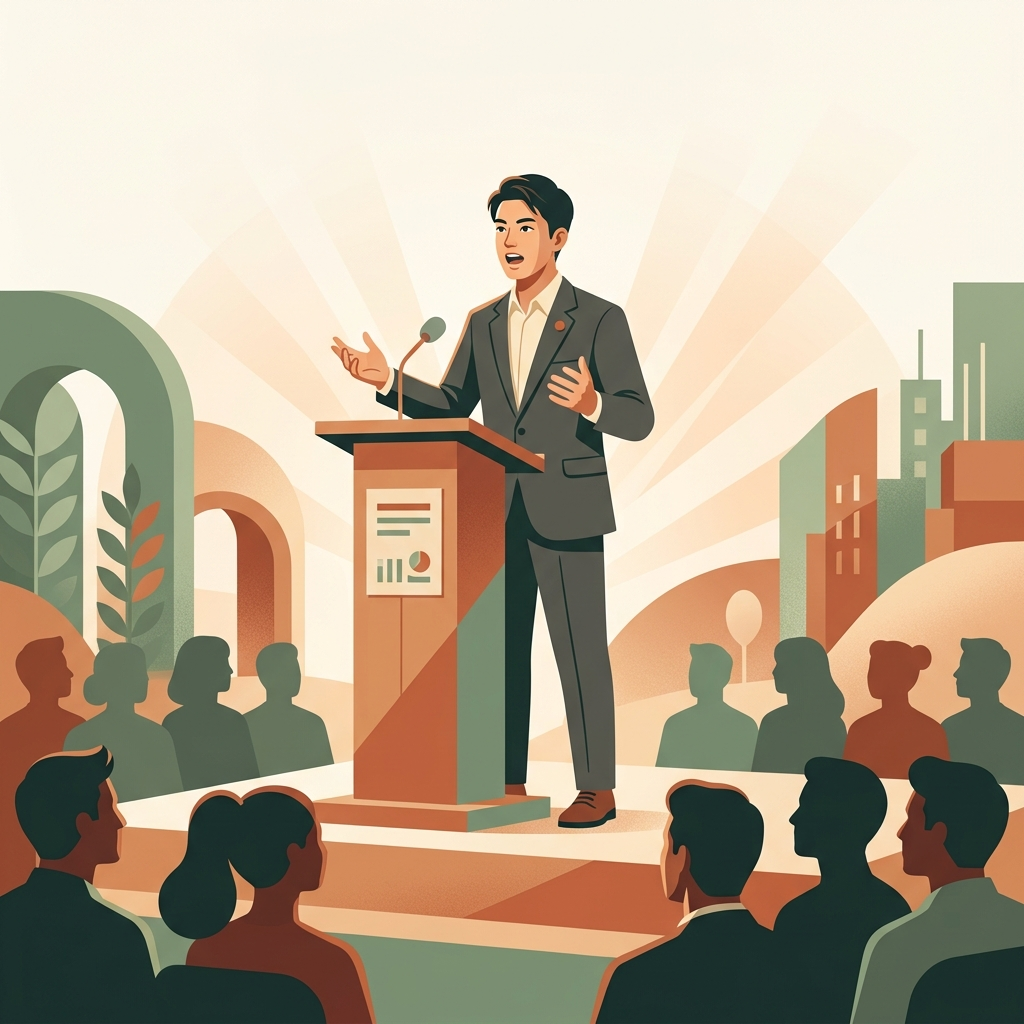
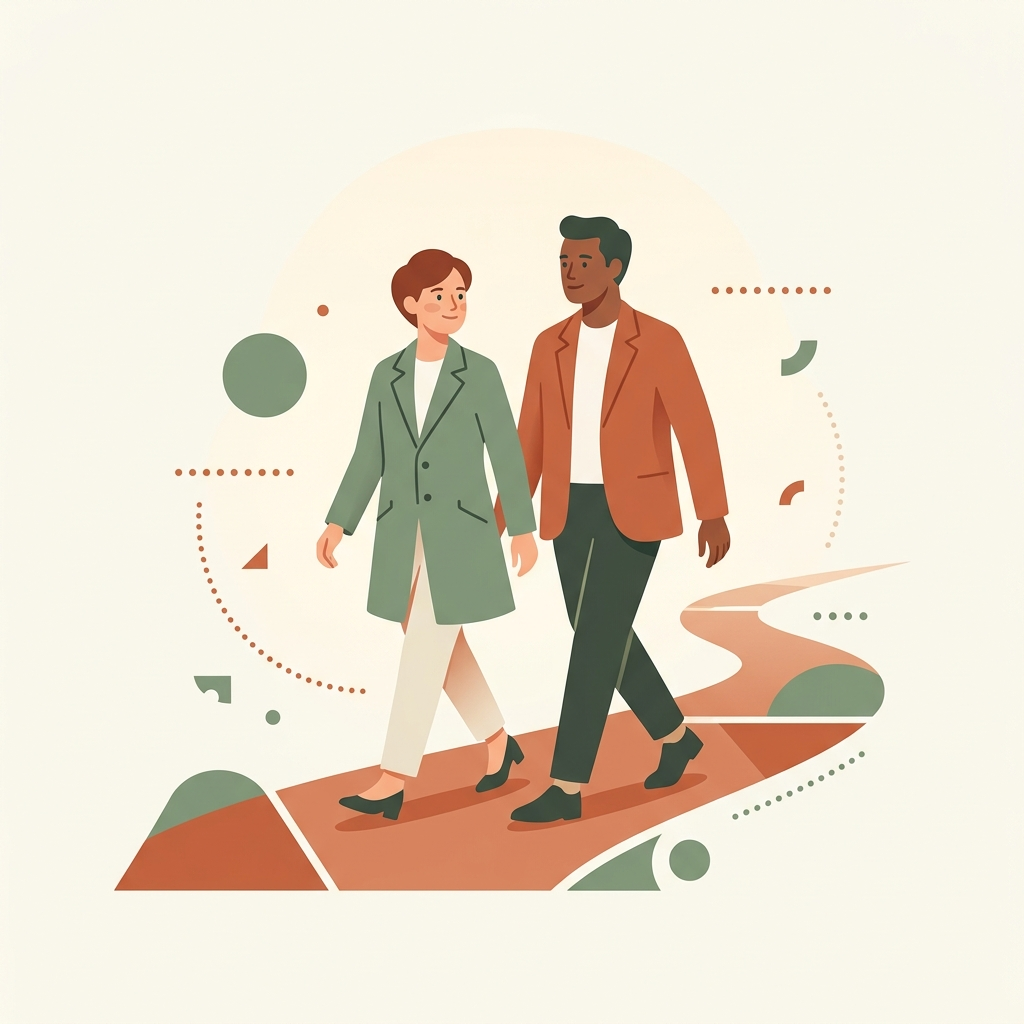
fix: hero back to center-aligned layout with accompaniment illustration + gimmick rings

diff --git a/css/style.css b/css/style.css
@@ -118,11 +118,11 @@ p{margin-bottom:1rem;line-height:1.85;font-size:1.05rem}
 .nav__overlay.open{display:block}
 
 /* ==========================================
-   HERO — Two-column visual impact
+   HERO — Center-aligned with visual gimmick
    ========================================== */
 .hero-wrapper{position:relative}
 
-.hero{position:relative;min-height:100vh;overflow:hidden;display:flex;flex-direction:column;justify-content:center;align-items:center;padding-top:64px;
+.hero{position:relative;min-height:100vh;overflow:hidden;display:flex;flex-direction:column;justify-content:center;align-items:center;padding:100px 0 120px;
   background:
     linear-gradient(135deg, #FAF8F2 0%, #F5F0E8 25%, #EDE8DF 50%, #F3EFE6 75%, #FAFAF6 100%);
 }
@@ -153,26 +153,28 @@ p{margin-bottom:1rem;line-height:1.85;font-size:1.05rem}
 .hero__blob--sage{width:550px;height:550px;background:radial-gradient(circle,rgba(107,143,113,.08),transparent 65%);bottom:-8%;left:-8%}
 .hero__blob--cream{width:500px;height:500px;background:radial-gradient(circle,rgba(243,241,235,.55),transparent 60%);top:20%;left:30%}
 
-/* Split layout — text left, visual right */
-.hero__split{position:relative;z-index:10;display:flex;align-items:center;justify-content:center;gap:48px;max-width:1100px;width:100%;padding:0 32px;margin:0 auto}
-.hero__text-side{flex:1;max-width:540px;text-align:left}
-.hero__visual-side{flex:1;display:flex;align-items:center;justify-content:center;max-width:480px}
-
+/* Centered text block */
+.hero__center{position:relative;z-index:10;text-align:center;padding:0 32px;max-width:800px;width:100%}
 .hero__label{font-family:var(--font-accent);font-size:.75rem;font-weight:600;color:var(--color-accent);letter-spacing:.28em;text-transform:uppercase;margin-bottom:22px;display:block;opacity:0;transform:translateY(10px);animation:heroFadeUp .7s var(--ease-out) .2s forwards}
-.hero__main-copy{font-family:var(--font-heading);font-size:clamp(2.4rem,5vw,3.8rem);font-weight:800;color:var(--color-primary);line-height:1.2;margin-bottom:24px;opacity:0;transform:translateY(16px);animation:heroFadeUp .7s var(--ease-out) .4s forwards;letter-spacing:.02em}
+.hero__main-copy{font-family:var(--font-heading);font-size:clamp(2.6rem,6vw,4.2rem);font-weight:800;color:var(--color-primary);line-height:1.2;margin-bottom:28px;opacity:0;transform:translateY(16px);animation:heroFadeUp .7s var(--ease-out) .4s forwards;letter-spacing:.02em}
 .hero__main-copy .accent{color:var(--color-accent);position:relative}
-.hero__sub-copy{font-size:clamp(.95rem,1.4vw,1.1rem);color:var(--color-text-light);line-height:2;margin-bottom:32px;opacity:0;transform:translateY(10px);animation:heroFadeUp .7s var(--ease-out) .55s forwards}
+.hero__sub-copy{font-size:clamp(1rem,1.5vw,1.15rem);color:var(--color-text-light);line-height:2;margin-bottom:36px;opacity:0;transform:translateY(10px);animation:heroFadeUp .7s var(--ease-out) .55s forwards}
 .hero__cta-group{opacity:0;transform:translateY(10px);animation:heroFadeUp .7s var(--ease-out) .7s forwards}
 
 @keyframes heroFadeUp{to{opacity:1;transform:translateY(0)}}
 
-/* Visual frame — image with decorative rings */
-.hero__visual-frame{position:relative;width:100%;max-width:440px;aspect-ratio:1/1;display:flex;align-items:center;justify-content:center;opacity:0;animation:heroFadeUp .8s var(--ease-out) .5s forwards}
-.hero__visual-img{width:88%;height:88%;object-fit:cover;border-radius:24px;box-shadow:0 16px 48px rgba(0,0,0,.08),0 4px 12px rgba(199,106,69,.1);position:relative;z-index:3;transition:transform .4s var(--ease)}
-.hero__visual-img:hover{transform:scale(1.02)}
-.hero__visual-ring{position:absolute;border-radius:50%;top:50%;left:50%;transform:translate(-50%,-50%)}
-.hero__visual-ring--1{width:105%;height:105%;border:1.5px dashed rgba(199,106,69,.15);animation:ringRotate 40s linear infinite}
-.hero__visual-ring--2{width:115%;height:115%;border:1px solid rgba(107,143,113,.08);animation:ringRotate 60s linear infinite reverse}
+/* Gimmick area — illustration with animated rings */
+.hero__gimmick{position:relative;z-index:10;margin-top:48px;display:flex;align-items:center;justify-content:center;opacity:0;animation:heroFadeUp .8s var(--ease-out) .9s forwards}
+.hero__gimmick-inner{position:relative;width:320px;height:320px;display:flex;align-items:center;justify-content:center}
+.hero__gimmick-img{width:220px;height:220px;object-fit:cover;border-radius:50%;box-shadow:0 12px 40px rgba(0,0,0,.08),0 4px 16px rgba(199,106,69,.12);position:relative;z-index:3;transition:transform .4s var(--ease)}
+.hero__gimmick-img:hover{transform:scale(1.04)}
+
+/* Animated rings — orbital gimmick feel */
+.hero__ring{position:absolute;border-radius:50%;top:50%;left:50%;transform:translate(-50%,-50%)}
+.hero__ring--outer{width:310px;height:310px;border:1.5px dashed rgba(199,106,69,.16);animation:ringRotate 40s linear infinite}
+.hero__ring--mid{width:270px;height:270px;border:1px solid rgba(107,143,113,.10);animation:ringRotate 28s linear infinite reverse}
+.hero__ring--inner{width:240px;height:240px;border:1px dashed rgba(199,106,69,.08);animation:ringRotate 50s linear infinite}
+
 @keyframes ringRotate{to{transform:translate(-50%,-50%) rotate(360deg)}}
 
 /* Scroll indicator */
@@ -181,7 +183,6 @@ p{margin-bottom:1rem;line-height:1.85;font-size:1.05rem}
 .hero__scroll-line{width:1px;height:32px;position:relative;overflow:hidden;background:var(--color-border)}
 .hero__scroll-line::after{content:'';position:absolute;top:-100%;left:0;width:100%;height:100%;background:var(--color-accent);animation:scrollLine 2.6s ease infinite}
 @keyframes scrollLine{0%{top:-100%}50%{top:0}100%{top:100%}}
-
 
 /* Wave transition */
 .hero__wave{position:absolute;bottom:-1px;left:0;right:0;height:80px;pointer-events:none;z-index:5}
@@ -545,12 +546,14 @@ p{margin-bottom:1rem;line-height:1.85;font-size:1.05rem}
   .nav__links{position:fixed;top:0;right:-100%;width:85%;max-width:300px;height:100vh;background:var(--color-bg);flex-direction:column;justify-content:center;padding:36px;gap:22px;transition:right var(--transition-base);box-shadow:-4px 0 24px rgba(0,0,0,.06)}
   .nav__links.open{right:0}
   .nav__hamburger{display:flex}
-  .hero__main-copy{font-size:clamp(2rem,7vw,2.8rem)}
-  .hero__sub-copy{font-size:.95rem}
-  .hero__split{flex-direction:column-reverse;gap:24px;padding:0 20px;text-align:center}
-  .hero__text-side{max-width:100%;text-align:center}
-  .hero__visual-side{max-width:320px}
-  .hero__visual-frame{max-width:280px}
+  .hero__main-copy{font-size:clamp(2.1rem,7vw,3rem)}
+  .hero__sub-copy{font-size:1rem}
+  .hero__gimmick{margin-top:32px}
+  .hero__gimmick-inner{width:260px;height:260px}
+  .hero__gimmick-img{width:180px;height:180px}
+  .hero__ring--outer{width:250px;height:250px}
+  .hero__ring--mid{width:220px;height:220px}
+  .hero__ring--inner{width:195px;height:195px}
   .story__visual{min-height:140px}
   .service-grid{grid-template-columns:1fr}
   .insight-grid{grid-template-columns:1fr}
@@ -575,8 +578,11 @@ p{margin-bottom:1rem;line-height:1.85;font-size:1.05rem}
 }
 @media(max-width:480px){
   .cta-btn{padding:13px 26px;font-size:.98rem}
-  .hero__visual-side{max-width:260px}
-  .hero__visual-frame{max-width:240px}
+  .hero__gimmick-inner{width:220px;height:220px}
+  .hero__gimmick-img{width:150px;height:150px}
+  .hero__ring--outer{width:210px;height:210px}
+  .hero__ring--mid{width:185px;height:185px}
+  .hero__ring--inner{width:165px;height:165px}
   .fellowship-process{grid-template-columns:1fr}
   .challenge-item{padding:14px 16px}
   .stance__item{padding:14px 16px 14px 46px}

diff --git a/index.html b/index.html
@@ -67,43 +67,42 @@
     <div class="nav__overlay"></div>
   </nav>
 
-  <!-- ===== HERO — Two-column visual impact ===== -->
+  <!-- ===== HERO — Center-aligned with visual gimmick ===== -->
   <div class="hero-wrapper">
     <section class="hero" id="hero">
       <div class="hero__blob hero__blob--warm"></div>
       <div class="hero__blob hero__blob--sage"></div>
       <div class="hero__blob hero__blob--cream"></div>
 
-      <div class="hero__split" id="heroCenter">
-        <!-- Left: Text content -->
-        <div class="hero__text-side">
-          <h1 class="visually-hidden">若手候補者・若手議員の伴走支援・選挙サポート POLISIDE</h1>
-          <span class="hero__label">Accompaniment Support</span>
-          <p class="hero__main-copy" role="presentation">政治の挑戦を、<br><span class="accent">ひとりにしない。</span></p>
-          <p class="hero__sub-copy">
-            POLISIDEは、若手候補者・若手議員の<br>
-            「隣に立つ」伴走型サポートです。<br>
-            正解を押し付けず、孤立させず、考える場を一緒につくります。
+      <!-- Centered text block -->
+      <div class="hero__center" id="heroCenter">
+        <h1 class="visually-hidden">若手候補者・若手議員の伴走支援・選挙サポート POLISIDE</h1>
+        <span class="hero__label">Accompaniment Support</span>
+        <p class="hero__main-copy" role="presentation">政治の挑戦を、<br><span class="accent">ひとりにしない。</span></p>
+        <p class="hero__sub-copy">
+          POLISIDEは、若手候補者・若手議員の<br>
+          「隣に立つ」伴走型サポートです。<br>
+          正解を押し付けず、孤立させず、考える場を一緒につくります。
+        </p>
+        <div class="hero__cta-group">
+          <a href="https://lin.ee/en5smI7" target="_blank" rel="noopener" class="cta-btn">
+            <svg viewBox="0 0 24 24" xmlns="http://www.w3.org/2000/svg"><path d="M19.365 9.863c.349 0 .63.285.63.631 0 .345-.281.63-.63.63H17.61v1.125h1.755c.349 0 .63.283.63.63 0 .344-.281.629-.63.629h-2.386c-.345 0-.627-.285-.627-.629V8.108c0-.345.282-.63.63-.63h2.386c.346 0 .627.285.627.63 0 .349-.281.63-.63.63H17.61v1.125h1.755zm-3.855 3.016c0 .27-.174.51-.432.596-.064.021-.133.031-.199.031-.211 0-.391-.09-.51-.25l-2.443-3.317v2.94c0 .344-.279.629-.631.629-.346 0-.626-.285-.626-.629V8.108c0-.27.173-.51.43-.595.06-.023.136-.033.194-.033.195 0 .375.104.495.254l2.462 3.33V8.108c0-.345.282-.63.63-.63.345 0 .63.285.63.63v4.771zm-5.741 0c0 .344-.282.629-.631.629-.345 0-.627-.285-.627-.629V8.108c0-.345.282-.63.63-.63.346 0 .628.285.628.63v4.771zm-2.466.629H4.917c-.345 0-.63-.285-.63-.629V8.108c0-.345.285-.63.63-.63.348 0 .63.285.63.63v4.141h1.756c.348 0 .629.283.629.63 0 .344-.282.629-.629.629M24 10.314C24 4.943 18.615.572 12 .572S0 4.943 0 10.314c0 4.811 4.27 8.842 10.035 9.608.391.082.923.258 1.058.59.12.301.079.766.038 1.08l-.164 1.02c-.045.301-.24 1.186 1.049.645 1.291-.539 6.916-4.078 9.436-6.975C23.176 14.393 24 12.458 24 10.314"/></svg>
+            <span>LINEで無料相談をはじめる</span>
+          </a>
+          <p class="cta-note" style="margin-top:12px;">
+            <strong>初回相談０円！</strong><br>
+            LINE追加後、アンケートに回答で初回60分の無料相談をご案内
           </p>
-          <div class="hero__cta-group">
-            <a href="https://lin.ee/en5smI7" target="_blank" rel="noopener" class="cta-btn">
-              <svg viewBox="0 0 24 24" xmlns="http://www.w3.org/2000/svg"><path d="M19.365 9.863c.349 0 .63.285.63.631 0 .345-.281.63-.63.63H17.61v1.125h1.755c.349 0 .63.283.63.63 0 .344-.281.629-.63.629h-2.386c-.345 0-.627-.285-.627-.629V8.108c0-.345.282-.63.63-.63h2.386c.346 0 .627.285.627.63 0 .349-.281.63-.63.63H17.61v1.125h1.755zm-3.855 3.016c0 .27-.174.51-.432.596-.064.021-.133.031-.199.031-.211 0-.391-.09-.51-.25l-2.443-3.317v2.94c0 .344-.279.629-.631.629-.346 0-.626-.285-.626-.629V8.108c0-.27.173-.51.43-.595.06-.023.136-.033.194-.033.195 0 .375.104.495.254l2.462 3.33V8.108c0-.345.282-.63.63-.63.345 0 .63.285.63.63v4.771zm-5.741 0c0 .344-.282.629-.631.629-.345 0-.627-.285-.627-.629V8.108c0-.345.282-.63.63-.63.346 0 .628.285.628.63v4.771zm-2.466.629H4.917c-.345 0-.63-.285-.63-.629V8.108c0-.345.285-.63.63-.63.348 0 .63.285.63.63v4.141h1.756c.348 0 .629.283.629.63 0 .344-.282.629-.629.629M24 10.314C24 4.943 18.615.572 12 .572S0 4.943 0 10.314c0 4.811 4.27 8.842 10.035 9.608.391.082.923.258 1.058.59.12.301.079.766.038 1.08l-.164 1.02c-.045.301-.24 1.186 1.049.645 1.291-.539 6.916-4.078 9.436-6.975C23.176 14.393 24 12.458 24 10.314"/></svg>
-              <span>LINEで無料相談をはじめる</span>
-            </a>
-            <p class="cta-note" style="margin-top:12px;">
-              <strong>初回相談０円！</strong><br>
-              LINE追加後、アンケートに回答で初回60分の無料相談をご案内
-            </p>
-          </div>
         </div>
+      </div>
 
-        <!-- Right: Hero visual / illustration -->
-        <div class="hero__visual-side">
-          <div class="hero__visual-frame">
-            <img src="hero-visual.png" alt="若手候補者が有権者に向けてスピーチしているイラスト" class="hero__visual-img" width="560" height="560" loading="eager">
-            <div class="hero__visual-ring hero__visual-ring--1"></div>
-            <div class="hero__visual-ring hero__visual-ring--2"></div>
-          </div>
+      <!-- Gimmick visual area — illustration with animated rings -->
+      <div class="hero__gimmick">
+        <div class="hero__gimmick-inner">
+          <div class="hero__ring hero__ring--outer"></div>
+          <div class="hero__ring hero__ring--mid"></div>
+          <div class="hero__ring hero__ring--inner"></div>
+          <img src="hero-visual.png" alt="二人が共に歩む伴走型サポートのイラスト" class="hero__gimmick-img" width="320" height="320" loading="eager">
         </div>
       </div>
 